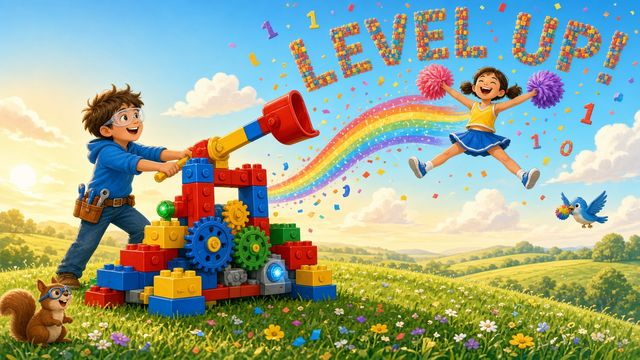
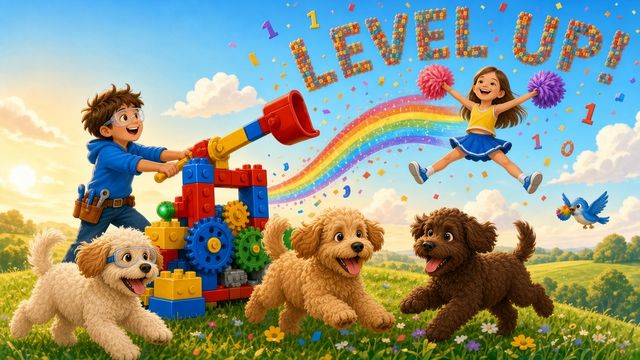
Swap in the v3 hero and frame it like a television on wide screens.
Keep the two-column layout, leave phones unframed, and do not change the approved copy.

diff --git a/css/styles.css b/css/styles.css
@@ -517,6 +517,53 @@ a.person-card:focus-visible {
     grid-column: 2;
     grid-row: 1;
     margin: 0;
+    position: relative;
+    padding: 0.62rem 0.68rem 1.45rem;
+    background:
+      radial-gradient(circle at 1.15rem calc(100% - 0.7rem), var(--accent) 0 0.26rem, #6a5344 0.28rem 0.4rem, transparent 0.42rem),
+      radial-gradient(circle at 2.2rem calc(100% - 0.7rem), #f3e6cf 0 0.26rem, #6a5344 0.28rem 0.4rem, transparent 0.42rem),
+      repeating-linear-gradient(90deg, #0e0c0a 0 2px, transparent 2px 5px) right 0.7rem bottom 0.5rem / 1.35rem 0.42rem no-repeat,
+      linear-gradient(#100e0c, #100e0c) left bottom / 100% 1.45rem no-repeat,
+      linear-gradient(180deg, #3c342e 0%, #241c18 100%);
+    border: 2px solid #6b5648;
+    border-radius: 1.15rem 1.15rem 0.9rem 0.9rem;
+    box-shadow:
+      inset 0 1px 0 rgba(255, 180, 162, 0.55),
+      6px 8px 0 var(--shadow);
+  }
+
+  .family-entry:has(.level-hero) .level-hero img {
+    border: 0;
+    border-radius: 0.45rem;
+    box-shadow:
+      inset 0 0 0 2px rgba(0, 0, 0, 0.72),
+      inset 0 0 16px rgba(0, 0, 0, 0.35);
+  }
+
+  .level-hero::before {
+    content: "";
+    position: absolute;
+    z-index: 1;
+    top: 0.62rem;
+    right: 0.68rem;
+    bottom: 1.45rem;
+    left: 0.68rem;
+    border-radius: 0.45rem;
+    background: linear-gradient(122deg, rgba(255, 255, 255, 0.2) 0%, rgba(255, 255, 255, 0.05) 18%, transparent 40%);
+    pointer-events: none;
+  }
+
+  .level-hero::after {
+    content: "";
+    position: absolute;
+    left: 12%;
+    right: 12%;
+    bottom: -0.38rem;
+    height: 0.38rem;
+    background:
+      linear-gradient(#2b231c, #2b231c) left / 26% 100% no-repeat,
+      linear-gradient(#2b231c, #2b231c) right / 26% 100% no-repeat;
+    pointer-events: none;
   }
 
   .level-up-copy {

diff --git a/index.html b/index.html
@@ -35,7 +35,7 @@
         <div class="family-entry">
           <picture class="level-hero">
             <source type="image/webp" srcset="/assets/img/level-up-hero-640.webp 640w, /assets/img/level-up-hero-1024.webp 1024w" sizes="(min-width: 900px) 42vw, calc(100vw - 2rem)">
-            <img src="/assets/img/level-up-hero-1024.jpg" srcset="/assets/img/level-up-hero-640.jpg 640w, /assets/img/level-up-hero-1024.jpg 1024w" sizes="(min-width: 900px) 42vw, calc(100vw - 2rem)" width="1024" height="576" alt="Storybook illustration of a boy in goggles launching a toy-brick catapult while a girl in a cheer outfit flies through the sky with pom-poms under brick letters that spell LEVEL UP!" loading="eager">
+            <img src="/assets/img/level-up-hero-1024.jpg" srcset="/assets/img/level-up-hero-640.jpg 640w, /assets/img/level-up-hero-1024.jpg 1024w" sizes="(min-width: 900px) 42vw, calc(100vw - 2rem)" width="1024" height="576" alt="Storybook illustration of a boy in goggles launching a toy-brick catapult while a girl in a cheer outfit flies through the sky with pom-poms above three playful Labradoodles, under brick letters that spell LEVEL UP!" loading="eager">
           </picture>
           <div class="level-up-copy">
             <h2 id="level-up-heading">What’s a Level Up?</h2>
